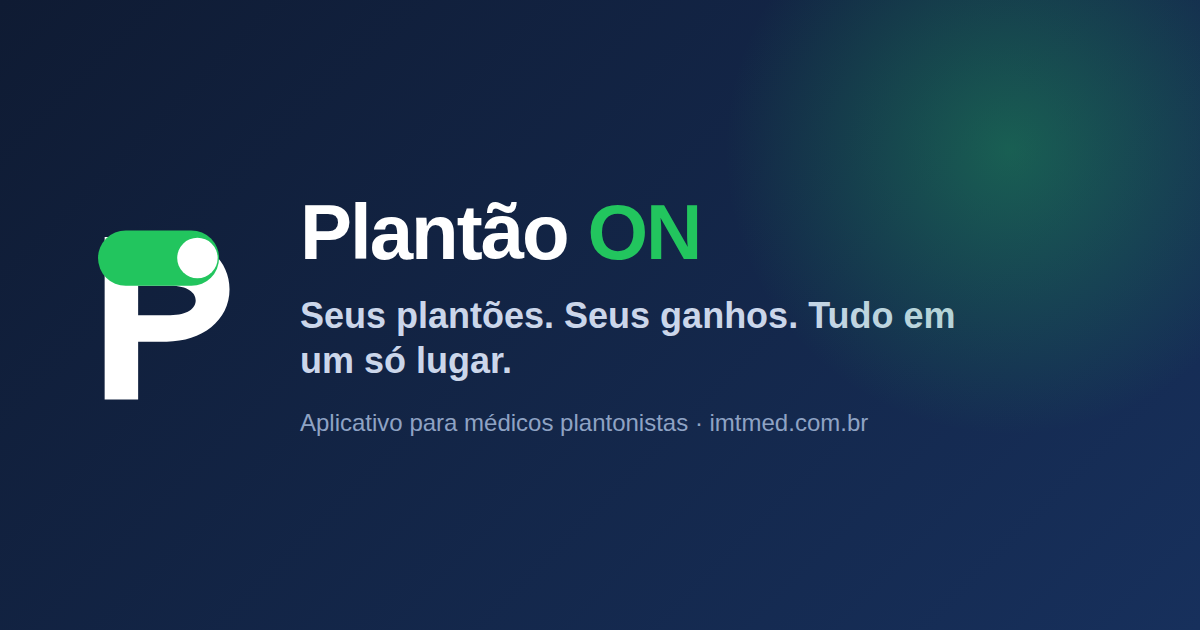
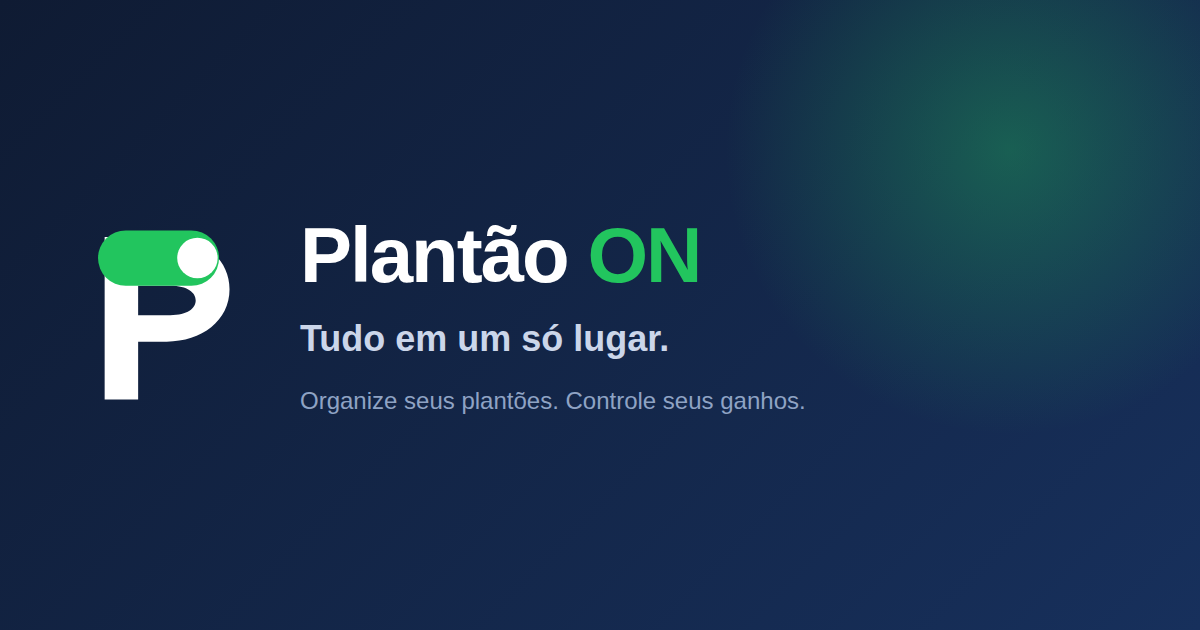
atualizações sobre as funcionalidades do aplicativo

Changed region(s): [[0.2467, 0.4825, 0.8017, 0.6937], [0.2467, 0.3016, 0.5858, 0.4524]]

diff --git a/index.html b/index.html
@@ -4,7 +4,7 @@
   <meta charset="utf-8">
   <meta name="viewport" content="width=device-width, initial-scale=1, viewport-fit=cover">
   <title>Plantão ON — Organize seus plantões e controle seus ganhos</title>
-  <meta name="description" content="O Plantão ON é o aplicativo para médicos plantonistas organizarem escalas, hospitais, ganhos e relatórios em um só lugar. Agenda de plantões, controle financeiro e sincronização com o Google Agenda.">
+  <meta name="description" content="O Plantão ON é o aplicativo para quem trabalha em plantões organizar escalas, locais de trabalho, ganhos e relatórios em um só lugar. Agenda de plantões, controle financeiro e sincronização com o Google Agenda.">
   <meta name="theme-color" content="#0f1b33">
   <link rel="canonical" href="https://imtmed.com.br/">
 
@@ -18,7 +18,7 @@
   <meta property="og:locale" content="pt_BR">
   <meta property="og:site_name" content="Plantão ON">
   <meta property="og:title" content="Plantão ON — Seus plantões. Seus ganhos. Tudo em um só lugar.">
-  <meta property="og:description" content="Aplicativo para médicos plantonistas: agenda, hospitais por cores, controle financeiro e relatórios.">
+  <meta property="og:description" content="Aplicativo para quem trabalha em plantões: agenda, locais por cores, controle financeiro e relatórios.">
   <meta property="og:url" content="https://imtmed.com.br/">
   <meta property="og:image" content="https://imtmed.com.br/assets/img/og-image.png">
   <meta name="twitter:card" content="summary_large_image">
@@ -42,9 +42,9 @@
       {
         "@type": "MobileApplication",
         "name": "Plantão ON",
-        "applicationCategory": "HealthApplication",
+        "applicationCategory": "BusinessApplication",
         "operatingSystem": "iOS, Android",
-        "description": "Aplicativo para médicos plantonistas organizarem plantões, hospitais, ganhos e relatórios.",
+        "description": "Aplicativo para profissionais que trabalham em plantões organizarem escalas, locais de trabalho, ganhos e relatórios.",
         "publisher": { "@type": "Organization", "name": "Migliorini Teixeira Health Tech Ltda." },
         "offers": [
           { "@type": "Offer", "price": "14.90", "priceCurrency": "BRL", "name": "Plano mensal" },
@@ -117,7 +117,7 @@
       <div class="hero-copy">
         <span class="eyebrow">Organize sua rotina. Controle seus ganhos.</span>
         <h1><span>Seus plantões.</span><span>Seus ganhos.</span><span class="accent">Tudo em um só lugar.</span></h1>
-        <p class="hero-lead">O Plantão ON é o aplicativo desenvolvido para médicos plantonistas que querem mais organização, praticidade e controle financeiro na sua rotina.</p>
+        <p class="hero-lead">O Plantão ON é o aplicativo desenvolvido para profissionais que trabalham em plantões e querem mais organização, praticidade e controle financeiro na sua rotina.</p>
         <div class="hero-cta">
           <span class="store-btn" aria-label="App Store — em breve"><svg><use href="#i-download"/></svg><span><small>Em breve na</small><strong>App Store</strong></span></span>
           <span class="store-btn" aria-label="Google Play — em breve"><svg><use href="#i-download"/></svg><span><small>Em breve no</small><strong>Google Play</strong></span></span>
@@ -145,18 +145,18 @@
       <div class="section-head section-head--center reveal">
         <span class="eyebrow">Funcionalidades</span>
         <h2>Organização completa para a sua rotina de plantões</h2>
-        <p>O Plantão ON foi pensado para simplificar a vida do médico plantonista, reunindo em um só lugar agenda, controle financeiro e relatórios.</p>
+        <p>O Plantão ON foi pensado para simplificar a vida de quem trabalha em plantões, reunindo em um só lugar agenda, controle financeiro e relatórios.</p>
       </div>
       <div class="feature-grid">
         <article class="feature reveal"><div class="ico"><svg><use href="#i-cal"/></svg></div><h3>Agenda de plantões</h3><p>Visualize todos os seus plantões em um calendário claro e fácil de consultar.</p></article>
-        <article class="feature reveal"><div class="ico"><svg><use href="#i-building"/></svg></div><h3>Hospitais por cores</h3><p>Cadastre seus hospitais e escolha uma cor para cada um, facilitando a visualização.</p></article>
+        <article class="feature reveal"><div class="ico"><svg><use href="#i-building"/></svg></div><h3>Locais por cores</h3><p>Cadastre seus locais de trabalho e escolha uma cor para cada um, facilitando a visualização.</p></article>
         <article class="feature reveal"><div class="ico"><svg><use href="#i-plus"/></svg></div><h3>Cadastro rápido</h3><p>Adicione um plantão em poucos toques, com horário, local, valor e observações.</p></article>
         <article class="feature reveal"><div class="ico"><svg><use href="#i-repeat"/></svg></div><h3>Plantões recorrentes</h3><p>Crie plantões semanais, quinzenais ou mensais automaticamente, e edite só um ou toda a sequência.</p></article>
         <article class="feature reveal"><div class="ico"><svg><use href="#i-coin"/></svg></div><h3>Controle financeiro</h3><p>Acompanhe ganhos previstos, recebidos e a receber, horas trabalhadas e média por plantão.</p></article>
         <article class="feature reveal"><div class="ico"><svg><use href="#i-sync"/></svg></div><h3>Google Agenda</h3><p>Se você quiser, seus plantões aparecem também na sua agenda do Google, e as mudanças acompanham.</p></article>
         <article class="feature reveal"><div class="ico"><svg><use href="#i-bell"/></svg></div><h3>Notificações</h3><p>Receba lembretes dos seus plantões e alertas de pagamentos pendentes.</p></article>
         <article class="feature reveal"><div class="ico"><svg><use href="#i-file"/></svg></div><h3>Relatórios</h3><p>Gere relatórios mensais e anuais em PDF ou CSV e envie quando precisar.</p></article>
-        <article class="feature reveal"><div class="ico"><svg><use href="#i-chart"/></svg></div><h3>Visão completa</h3><p>Entenda quais hospitais geram mais ganhos e acompanhe sua evolução financeira.</p></article>
+        <article class="feature reveal"><div class="ico"><svg><use href="#i-chart"/></svg></div><h3>Visão completa</h3><p>Entenda quais locais geram mais ganhos e acompanhe sua evolução financeira.</p></article>
       </div>
     </div>
   </section>
@@ -170,7 +170,7 @@
         <p style="color:var(--muted);font-size:1.08rem">Organize seus plantões, acompanhe seus ganhos e tenha mais tranquilidade na sua vida profissional.</p>
         <ul class="check-list">
           <li><span class="tick"><svg><use href="#i-check"/></svg></span><span><strong>Tudo na palma da mão</strong>Escala, valores e horas num único app, sem planilhas nem anotações soltas.</span></li>
-          <li><span class="tick"><svg><use href="#i-check"/></svg></span><span><strong>Saiba quanto vai receber</strong>Veja o previsto, o que já caiu e o que ainda falta receber de cada hospital.</span></li>
+          <li><span class="tick"><svg><use href="#i-check"/></svg></span><span><strong>Saiba quanto vai receber</strong>Veja o previsto, o que já caiu e o que ainda falta receber de cada local.</span></li>
           <li><span class="tick"><svg><use href="#i-check"/></svg></span><span><strong>Relatórios prontos</strong>Exporte o mês ou o ano em PDF ou CSV para conferir ou compartilhar.</span></li>
         </ul>
         <a class="btn btn--primary" href="#planos">Ver planos</a>
@@ -193,7 +193,7 @@
           <p class="price-sub">por mês</p>
           <ul>
             <li><svg><use href="#i-check"/></svg>Agenda de plantões</li>
-            <li><svg><use href="#i-check"/></svg>Hospitais por cores</li>
+            <li><svg><use href="#i-check"/></svg>Locais por cores</li>
             <li><svg><use href="#i-check"/></svg>Controle financeiro</li>
             <li><svg><use href="#i-check"/></svg>Relatórios em PDF e CSV</li>
             <li><svg><use href="#i-check"/></svg>Notificações</li>
@@ -209,7 +209,7 @@
           <p class="price-sub">por ano (equivale a R$&nbsp;9,99/mês)</p>
           <ul>
             <li><svg><use href="#i-check"/></svg>Agenda de plantões</li>
-            <li><svg><use href="#i-check"/></svg>Hospitais por cores</li>
+            <li><svg><use href="#i-check"/></svg>Locais por cores</li>
             <li><svg><use href="#i-check"/></svg>Controle financeiro</li>
             <li><svg><use href="#i-check"/></svg>Relatórios em PDF e CSV</li>
             <li><svg><use href="#i-check"/></svg>Notificações</li>
@@ -233,11 +233,11 @@
     <div class="container">
       <div class="section-head section-head--center reveal">
         <span class="eyebrow">Para quem</span>
-        <h2>Feito para médicos plantonistas, como você</h2>
-        <p>Quem trabalha em vários hospitais, escalas e vínculos sabe o quanto é difícil manter tudo sob controle. O Plantão ON foi criado para essa realidade.</p>
+        <h2>Feito para quem vive de plantão, como você</h2>
+        <p>Quem trabalha em vários locais, escalas e vínculos sabe o quanto é difícil manter tudo sob controle. O Plantão ON foi criado para essa realidade.</p>
       </div>
       <div class="audience">
-        <article class="aud reveal" style="--c:var(--green)"><h3>Vários hospitais</h3><p>Distinga cada local por cor e veja, de relance, onde você está em cada dia do mês.</p></article>
+        <article class="aud reveal" style="--c:var(--green)"><h3>Vários locais de trabalho</h3><p>Distinga cada local por cor e veja, de relance, onde você está em cada dia do mês.</p></article>
         <article class="aud reveal" style="--c:var(--blue)"><h3>Escalas que se repetem</h3><p>Configure a repetição uma vez e deixe o app preencher os próximos meses para você.</p></article>
         <article class="aud reveal" style="--c:var(--amber)"><h3>Pagamentos a receber</h3><p>Marque o que já foi pago e não perca de vista o que ainda está pendente.</p></article>
         <article class="aud reveal" style="--c:var(--violet)"><h3>Prestação de contas</h3><p>Gere relatórios do mês ou do ano e tenha tudo pronto para conferir ou declarar.</p></article>
@@ -265,16 +265,16 @@
       </div>
       <div class="faq-wrap">
         <div class="faq reveal">
-          <details><summary>O que é o Plantão ON?</summary><div class="answer"><p>É um aplicativo para médicos plantonistas organizarem plantões, hospitais, ganhos e relatórios em um só lugar, direto no celular.</p></div></details>
+          <details><summary>O que é o Plantão ON?</summary><div class="answer"><p>É um aplicativo para profissionais que trabalham em plantões organizarem escalas, locais de trabalho, ganhos e relatórios em um só lugar, direto no celular.</p></div></details>
           <details><summary>Como funciona o período de teste?</summary><div class="answer"><p>Ao assinar pela primeira vez, você tem 30 dias para testar todas as funcionalidades sem custo. Se não quiser continuar, cancele antes do fim do período, pela própria loja de aplicativos, e nada será cobrado.</p></div></details>
           <details><summary>Quais são os planos e valores?</summary><div class="answer"><p>Há o plano mensal, de R$&nbsp;14,90 por mês, e o plano anual, de R$&nbsp;119,90 por ano (equivalente a R$&nbsp;9,99 por mês). Os dois dão acesso a todas as funcionalidades.</p></div></details>
           <details><summary>Como funciona o cancelamento?</summary><div class="answer"><p>A assinatura é gerenciada pela App Store ou pelo Google Play, e você pode cancelar a qualquer momento nas configurações de assinaturas da sua conta na loja. O acesso continua até o fim do período já pago.</p></div></details>
           <details><summary>O aplicativo está disponível para iOS e Android?</summary><div class="answer"><p>O Plantão ON foi desenvolvido para iOS e Android e está em fase de publicação nas duas lojas. Assim que estiver no ar, os botões de download desta página serão ativados.</p></div></details>
           <details><summary>Meus dados estão seguros?</summary><div class="answer"><p>Sim. Os dados trafegam por conexão criptografada (HTTPS) e ficam em infraestrutura de nuvem com controle de acesso por conta. Seguimos a Lei Geral de Proteção de Dados (LGPD). Saiba mais na <a href="privacidade.html">Política de Privacidade</a>.</p></div></details>
           <details><summary>Posso exportar meus relatórios?</summary><div class="answer"><p>Sim. Você gera relatórios mensais ou anuais em PDF ou CSV e pode enviá-los por e-mail.</p></div></details>
-          <details><summary>Posso cadastrar mais de um hospital?</summary><div class="answer"><p>Sim. Você cadastra quantos hospitais e locais de trabalho precisar e escolhe uma cor para cada um.</p></div></details>
-          <details><summary>O aplicativo serve apenas para médicos?</summary><div class="answer"><p>Ele foi pensado para a rotina de médicos plantonistas, mas qualquer profissional que trabalhe em escalas de plantão pode usar para organizar horários e ganhos.</p></div></details>
-          <details><summary>O Plantão ON guarda dados de pacientes?</summary><div class="answer"><p>Não. O aplicativo é para a sua organização profissional e financeira. Pedimos que não registre nome ou dados de pacientes nas anotações dos plantões.</p></div></details>
+          <details><summary>Posso cadastrar mais de um local de trabalho?</summary><div class="answer"><p>Sim. Você cadastra quantos locais de trabalho precisar e escolhe uma cor para cada um.</p></div></details>
+          <details><summary>Para quem é o Plantão ON?</summary><div class="answer"><p>Para qualquer profissional que trabalhe em escalas de plantão, em qualquer área. O aplicativo serve para organizar horários, locais de trabalho e ganhos.</p></div></details>
+          <details><summary>O Plantão ON guarda dados de terceiros?</summary><div class="answer"><p>Não. O aplicativo é para a sua organização profissional e financeira. Pedimos que não registre dados pessoais de terceiros (como clientes ou pacientes) nas anotações dos plantões.</p></div></details>
           <details><summary>Como faço para entrar em contato com o suporte?</summary><div class="answer"><p>Escreva para <a href="mailto:imthealthtech@imtmed.com.br">imthealthtech@imtmed.com.br</a> ou use o formulário na seção <a href="#contato">Contato</a>.</p></div></details>
         </div>
         <div class="faq-phone" aria-hidden="true"><div data-phone="finance"></div></div>
@@ -288,12 +288,12 @@
       <div class="reveal">
         <span class="eyebrow">Sobre o Plantão ON</span>
         <h2 style="font-size:clamp(1.75rem,4.4vw,2.6rem)">Tecnologia para uma vida profissional mais organizada</h2>
-        <p>O Plantão ON nasceu da realidade de médicos plantonistas, que vivem a rotina de múltiplos locais, escalas diferentes e variações de valor, e encontraram a necessidade de uma ferramenta simples e completa para organizar os próprios plantões e ganhos.</p>
-        <p>O aplicativo é desenvolvido e mantido pela <strong>Migliorini Teixeira Health Tech Ltda.</strong> (CNPJ 69.494.098/0001-87), empresa dedicada a criar soluções digitais para a área da saúde.</p>
+        <p>O Plantão ON nasceu da realidade de quem vive de plantão: múltiplos locais, escalas diferentes e variações de valor, e a necessidade de uma ferramenta simples e completa para organizar os próprios plantões e ganhos.</p>
+        <p>O aplicativo é desenvolvido e mantido pela <strong>Migliorini Teixeira Health Tech Ltda.</strong> (CNPJ 69.494.098/0001-87), empresa dedicada a criar soluções digitais que facilitam a rotina de profissionais.</p>
       </div>
       <div class="values">
-        <div class="value reveal"><div class="ico"><svg><use href="#i-target"/></svg></div><div><h3>Nossa missão</h3><p>Simplificar a vida do médico plantonista, oferecendo uma ferramenta prática, segura e completa.</p></div></div>
-        <div class="value reveal"><div class="ico"><svg><use href="#i-eye"/></svg></div><div><h3>Nossos valores</h3><p>Praticidade, segurança, transparência, inovação e respeito ao tempo do profissional de saúde.</p></div></div>
+        <div class="value reveal"><div class="ico"><svg><use href="#i-target"/></svg></div><div><h3>Nossa missão</h3><p>Simplificar a vida de quem trabalha em plantões, oferecendo uma ferramenta prática, segura e completa.</p></div></div>
+        <div class="value reveal"><div class="ico"><svg><use href="#i-eye"/></svg></div><div><h3>Nossos valores</h3><p>Praticidade, segurança, transparência, inovação e respeito ao tempo de quem trabalha em plantão.</p></div></div>
         <div class="value reveal"><div class="ico"><svg><use href="#i-shield"/></svg></div><div><h3>Nosso compromisso</h3><p>Evoluir continuamente o aplicativo, sempre com base na experiência real dos nossos usuários e protegendo seus dados.</p></div></div>
       </div>
     </div>
@@ -330,7 +330,7 @@
           </div>
           <div class="field"><label for="f-msg">Mensagem</label><textarea id="f-msg" name="mensagem" placeholder="Digite sua mensagem aqui..." required maxlength="3000"></textarea></div>
           <div class="field field--hp" aria-hidden="true"><label for="f-site">Não preencha este campo</label><input id="f-site" name="site" type="text" tabindex="-1" autocomplete="off"></div>
-          <p class="consent">Ao enviar, você concorda que usemos seus dados apenas para responder esta mensagem, conforme a <a href="privacidade.html">Política de Privacidade</a>. Não inclua dados de pacientes.</p>
+          <p class="consent">Ao enviar, você concorda que usemos seus dados apenas para responder esta mensagem, conforme a <a href="privacidade.html">Política de Privacidade</a>. Não inclua dados pessoais de terceiros.</p>
           <p class="form-status" id="form-status" role="status" aria-live="polite"></p>
           <button class="btn btn--primary" type="submit" id="form-btn">Enviar mensagem</button>
         </form>
@@ -374,7 +374,7 @@
           <img src="assets/img/logo-mark-light.svg" alt="" width="34" height="40">
           <span class="brand-text"><span class="brand-name">Plantão <b>ON</b></span><span class="brand-tag">Escala de Plantões &amp; Ganhos</span></span>
         </a>
-        <p>Aplicativo para médicos plantonistas organizarem plantões, ganhos e relatórios em um só lugar.</p>
+        <p>Aplicativo para profissionais que trabalham em plantões organizarem escalas, ganhos e relatórios em um só lugar.</p>
       </div>
       <div class="col-links">
         <h4>Navegação</h4>

diff --git a/privacidade.html b/privacidade.html
@@ -68,7 +68,7 @@
         <li><a href="#retencao">Por quanto tempo guardamos</a></li>
         <li><a href="#direitos">Seus direitos</a></li>
         <li><a href="#seguranca">Segurança</a></li>
-        <li><a href="#pacientes">Dados de pacientes</a></li>
+        <li><a href="#terceiros">Dados de terceiros</a></li>
         <li><a href="#menores">Menores de idade</a></li>
         <li><a href="#site">Site, cookies e e-mails</a></li>
         <li><a href="#alteracoes">Alterações desta política</a></li>
@@ -91,7 +91,7 @@
           <tbody>
             <tr><td><strong>Conta e perfil</strong></td><td>Nome, e-mail, foto de perfil (opcional), data de nascimento e sexo</td><td>Informados por você ou recebidos do login com Google ou Apple</td></tr>
             <tr><td><strong>Login social</strong></td><td>Identificador da conta, nome e e-mail fornecidos pelo Google ou pela Apple. Nunca recebemos sua senha do Google ou da Apple</td><td>Google / Apple, com a sua autorização</td></tr>
-            <tr><td><strong>Conteúdo do app</strong></td><td>Hospitais e locais (nome e cor), plantões (data, horário, tipo, valor, repasse, observações, status de pagamento) e regras de repetição</td><td>Informados por você</td></tr>
+            <tr><td><strong>Conteúdo do app</strong></td><td>Locais de trabalho (nome e cor), plantões (data, horário, tipo, valor, repasse, observações, status de pagamento) e regras de repetição</td><td>Informados por você</td></tr>
             <tr><td><strong>Relatórios</strong></td><td>Relatórios em PDF ou CSV gerados a partir dos seus plantões e, se você pedir, enviados ao e-mail que indicar</td><td>Gerados por você</td></tr>
             <tr><td><strong>Assinatura</strong></td><td>Situação da assinatura (plano, período de teste, validade). Não recebemos dados do seu cartão</td><td>App Store, Google Play e provedor de assinaturas</td></tr>
             <tr><td><strong>Dados técnicos</strong></td><td>Modelo do aparelho, sistema operacional, versão do app, endereço IP e registros de erro</td><td>Coletados automaticamente</td></tr>
@@ -129,7 +129,7 @@
         <li><strong>Atualizamos</strong> esse mesmo evento quando você edita o plantão no aplicativo.</li>
         <li><strong>Removemos</strong> o evento quando você exclui o plantão no aplicativo.</li>
       </ul>
-      <p>O evento contém: título (nome do hospital e tipo do plantão), data e horário de início e fim e, na descrição, o valor, o campo “repassado para” e as observações do plantão, quando preenchidos. Se você não quiser que essas informações apareçam na sua agenda, não ative a integração.</p>
+      <p>O evento contém: título (nome do local de trabalho e tipo do plantão), data e horário de início e fim e, na descrição, o valor, o campo “repassado para” e as observações do plantão, quando preenchidos. Se você não quiser que essas informações apareçam na sua agenda, não ative a integração.</p>
       <p><strong>O que não fazemos:</strong> não lemos, listamos nem copiamos os demais eventos da sua agenda; usamos o acesso somente para criar, atualizar e apagar os eventos que o próprio aplicativo gerou. A sincronização é de mão única (Plantão ON → Google Agenda): alterações feitas diretamente na agenda não voltam para o aplicativo.</p>
       <p>As credenciais de acesso do Google (tokens) são gerenciadas pelo componente oficial de login do Google no seu aparelho e <strong>não são armazenadas em nossos servidores</strong>. Você pode desconectar a integração a qualquer momento no aplicativo ou revogar o acesso em <a href="https://myaccount.google.com/permissions" rel="noopener" target="_blank">myaccount.google.com/permissions</a>.</p>
 
@@ -164,8 +164,8 @@
       <h2 id="seguranca">9. Segurança</h2>
       <p>Adotamos medidas técnicas e organizacionais para proteger os dados, como conexões criptografadas (HTTPS/TLS), controle de acesso por conta (cada usuário só acessa os próprios dados), armazenamento seguro de sessão no aparelho e restrição de acesso interno. Nenhum sistema é totalmente imune a falhas; em caso de incidente que possa causar risco relevante, comunicaremos você e a ANPD conforme a lei.</p>
 
-      <h2 id="pacientes">10. Dados de pacientes</h2>
-      <p>O Plantão ON <strong>não é um prontuário nem um sistema de gestão clínica</strong> e não foi projetado para armazenar dados de pacientes. Pedimos que você <strong>não registre nomes, documentos ou informações de saúde de pacientes</strong> nas observações ou em qualquer outro campo.</p>
+      <h2 id="terceiros">10. Dados de terceiros</h2>
+      <p>O Plantão ON é uma ferramenta de organização pessoal de plantões e ganhos e <strong>não foi projetado para armazenar dados de clientes, pacientes ou outros terceiros</strong>. Pedimos que você <strong>não registre nomes, documentos ou informações pessoais ou sensíveis de terceiros</strong> nas observações ou em qualquer outro campo.</p>
 
       <h2 id="menores">11. Menores de idade</h2>
       <p>O aplicativo é destinado a profissionais e a maiores de 18 anos. Não coletamos intencionalmente dados de menores; se identificarmos uma conta nessa situação, ela será excluída.</p>
@@ -193,7 +193,7 @@
           <img src="assets/img/logo-mark-light.svg" alt="" width="34" height="40">
           <span class="brand-text"><span class="brand-name">Plantão <b>ON</b></span><span class="brand-tag">Escala de Plantões &amp; Ganhos</span></span>
         </a>
-        <p>Aplicativo para médicos plantonistas organizarem plantões, ganhos e relatórios em um só lugar.</p>
+        <p>Aplicativo para profissionais que trabalham em plantões organizarem escalas, ganhos e relatórios em um só lugar.</p>
       </div>
       <div class="col-links">
         <h4>Navegação</h4>

diff --git a/termos.html b/termos.html
@@ -83,7 +83,7 @@
       <p>Ao criar uma conta ou usar o Plantão ON, você declara que leu e concorda com estes Termos e com a <a href="privacidade.html">Política de Privacidade</a>. Se não concordar, não utilize o aplicativo.</p>
 
       <h2 id="servico">2. O serviço</h2>
-      <p>O Plantão ON é um aplicativo para profissionais que trabalham em escalas de plantão, especialmente médicos, organizarem seus plantões, hospitais e locais de trabalho, acompanharem valores a receber e recebidos e gerarem relatórios. Também oferece, de forma opcional, a sincronização dos plantões com o Google Agenda.</p>
+      <p>O Plantão ON é um aplicativo para profissionais que trabalham em escalas de plantão organizarem seus plantões e locais de trabalho, acompanharem valores a receber e recebidos e gerarem relatórios. Também oferece, de forma opcional, a sincronização dos plantões com o Google Agenda.</p>
       <p>As funcionalidades podem mudar, ser aprimoradas ou descontinuadas ao longo do tempo.</p>
 
       <h2 id="conta">3. Cadastro e conta</h2>
@@ -112,11 +112,11 @@
         <li>tentar acessar contas, sistemas ou dados que não sejam seus, ou contornar medidas de segurança;</li>
         <li>fazer engenharia reversa, copiar, revender ou explorar comercialmente o aplicativo, exceto quando a lei permitir;</li>
         <li>enviar vírus, automatizar acessos de forma abusiva ou sobrecarregar a infraestrutura;</li>
-        <li>inserir dados de pacientes ou outros dados sensíveis de terceiros nos campos do aplicativo.</li>
+        <li>inserir dados pessoais ou sensíveis de terceiros (como clientes ou pacientes) nos campos do aplicativo.</li>
       </ul>
 
       <h2 id="conteudo-usuario">6. Seu conteúdo</h2>
-      <p>Os dados que você cadastra (hospitais, plantões, valores, observações) continuam sendo seus. Você nos autoriza a armazená-los e processá-los somente para operar o aplicativo para você, conforme a Política de Privacidade. Você é responsável pela exatidão do que registra: o Plantão ON é uma ferramenta de organização e <strong>não substitui</strong> contratos, notas fiscais, contracheques ou a conferência com a fonte pagadora.</p>
+      <p>Os dados que você cadastra (locais de trabalho, plantões, valores, observações) continuam sendo seus. Você nos autoriza a armazená-los e processá-los somente para operar o aplicativo para você, conforme a Política de Privacidade. Você é responsável pela exatidão do que registra: o Plantão ON é uma ferramenta de organização e <strong>não substitui</strong> contratos, notas fiscais, contracheques ou a conferência com a fonte pagadora.</p>
 
       <h2 id="propriedade">7. Propriedade intelectual</h2>
       <p>O aplicativo, a marca “Plantão ON”, o logotipo, o design, os textos e o código são de nossa titularidade ou licenciados a nós, e protegidos pela legislação aplicável. Concedemos a você uma licença pessoal, limitada, revogável, não exclusiva e intransferível para usar o aplicativo conforme estes Termos.</p>
@@ -127,7 +127,7 @@
 
       <h2 id="aviso">9. Avisos importantes</h2>
       <div class="callout">
-        <p>O Plantão ON <strong>não é um serviço de saúde</strong>, não presta orientação médica nem integra prontuários. Não registre dados de pacientes. Os valores, horas e relatórios exibidos dependem das informações que você mesmo cadastra.</p>
+        <p>O Plantão ON é uma ferramenta de organização pessoal. <strong>Não registre dados pessoais de terceiros</strong>, como clientes ou pacientes. Os valores, horas e relatórios exibidos dependem das informações que você mesmo cadastra.</p>
       </div>
       <p>Lembretes e notificações dependem do seu aparelho, das permissões concedidas e de conexão, e podem falhar; não os use como único meio de controle de compromissos críticos.</p>
 
@@ -156,7 +156,7 @@
           <img src="assets/img/logo-mark-light.svg" alt="" width="34" height="40">
           <span class="brand-text"><span class="brand-name">Plantão <b>ON</b></span><span class="brand-tag">Escala de Plantões &amp; Ganhos</span></span>
         </a>
-        <p>Aplicativo para médicos plantonistas organizarem plantões, ganhos e relatórios em um só lugar.</p>
+        <p>Aplicativo para profissionais que trabalham em plantões organizarem escalas, ganhos e relatórios em um só lugar.</p>
       </div>
       <div class="col-links">
         <h4>Navegação</h4>

diff --git a/js/main.js b/js/main.js
@@ -31,7 +31,7 @@
   var PHONES = {
     calendar:
       '<div class="screen">' +
-        '<div class="screen-top"><div class="hello"><span>Olá, Dr. José 👋</span><i>＋</i></div>' +
+        '<div class="screen-top"><div class="hello"><span>Olá, José 👋</span><i>＋</i></div>' +
         '<div class="month">Outubro 2026</div>' +
         '<div class="stat-row"><div class="stat"><b>12</b><span>Plantões</span></div><div class="stat"><b>144</b><span>Horas</span></div></div></div>' +
         '<div class="money-row">' +
@@ -42,8 +42,8 @@
         '<div class="screen-body">' +
           '<div class="cal"><div class="cal-head"><span>D</span><span>S</span><span>T</span><span>Q</span><span>Q</span><span>S</span><span>S</span></div><div class="cal-grid">' + calendarCells() + '</div></div>' +
           '<div class="screen-title">Próximos plantões</div>' +
-          '<div class="shift" style="--c:#16a34a"><i class="bar"></i><div><b>Hospital Central</b><small>07:00 – 19:00 · UTI</small></div><em>R$ 1.500</em></div>' +
-          '<div class="shift" style="--c:#f59e0b"><i class="bar"></i><div><b>Pronto Atendimento Sul</b><small>19:00 – 07:00 · PS</small></div><em>R$ 1.400</em></div>' +
+          '<div class="shift" style="--c:#16a34a"><i class="bar"></i><div><b>Unidade Centro</b><small>07:00 – 19:00 · Diurno</small></div><em>R$ 1.500</em></div>' +
+          '<div class="shift" style="--c:#f59e0b"><i class="bar"></i><div><b>Posto Norte</b><small>19:00 – 07:00 · Noturno</small></div><em>R$ 1.400</em></div>' +
         '</div>' + tab(0) +
       '</div>',
     finance:
@@ -52,12 +52,12 @@
         '<div class="screen-body" style="padding-top:12px">' +
           '<div class="money-row" style="padding:0 0 4px"><div class="money"><small>Previstos</small><b>R$ 18.400</b></div><div class="money money--g"><small>Recebidos</small><b>R$ 12.600</b></div><div class="money money--a"><small>A receber</small><b>R$ 5.800</b></div></div>' +
           '<div class="donut"><div><span><b>12</b><small>plantões</small></span></div></div>' +
-          '<div class="screen-title">Ganhos por hospital</div>' +
+          '<div class="screen-title">Ganhos por local</div>' +
           '<div class="hbars">' +
-            '<div class="row"><span>Hosp. Central</span><div class="track"><i style="--c:#16a34a;--w:82%"></i></div><span>7.500</span></div>' +
-            '<div class="row"><span>UPA Norte</span><div class="track"><i style="--c:#3b82f6;--w:66%"></i></div><span>6.000</span></div>' +
-            '<div class="row"><span>Clínica Vida</span><div class="track"><i style="--c:#f59e0b;--w:48%"></i></div><span>4.500</span></div>' +
-            '<div class="row"><span>Hosp. Sul</span><div class="track"><i style="--c:#8b5cf6;--w:30%"></i></div><span>2.800</span></div>' +
+            '<div class="row"><span>Centro</span><div class="track"><i style="--c:#16a34a;--w:82%"></i></div><span>7.500</span></div>' +
+            '<div class="row"><span>Posto Norte</span><div class="track"><i style="--c:#3b82f6;--w:66%"></i></div><span>6.000</span></div>' +
+            '<div class="row"><span>Base Leste</span><div class="track"><i style="--c:#f59e0b;--w:48%"></i></div><span>4.500</span></div>' +
+            '<div class="row"><span>Unid. Sul</span><div class="track"><i style="--c:#8b5cf6;--w:30%"></i></div><span>2.800</span></div>' +
           '</div>' +
         '</div>' + tab(3) +
       '</div>'

diff --git a/excluir-conta.html b/excluir-conta.html
@@ -70,7 +70,7 @@
       <h2>O que é apagado</h2>
       <ul>
         <li>Dados de perfil (nome, e-mail, foto, data de nascimento e sexo);</li>
-        <li>Hospitais, plantões, regras de repetição, valores e observações;</li>
+        <li>Locais de trabalho, plantões, regras de repetição, valores e observações;</li>
         <li>Relatórios e demais conteúdos associados à sua conta.</li>
       </ul>
       <p>Os dados são eliminados ou anonimizados em até <strong>30 dias</strong> após a confirmação. Podemos manter apenas o que a lei exigir (por exemplo, registros de cobrança) ou for necessário para a defesa em processos, pelo prazo legal.</p>
@@ -95,7 +95,7 @@
           <img src="assets/img/logo-mark-light.svg" alt="" width="34" height="40">
           <span class="brand-text"><span class="brand-name">Plantão <b>ON</b></span><span class="brand-tag">Escala de Plantões &amp; Ganhos</span></span>
         </a>
-        <p>Aplicativo para médicos plantonistas organizarem plantões, ganhos e relatórios em um só lugar.</p>
+        <p>Aplicativo para profissionais que trabalham em plantões organizarem escalas, ganhos e relatórios em um só lugar.</p>
       </div>
       <div class="col-links">
         <h4>Navegação</h4>

diff --git a/404.html b/404.html
@@ -54,7 +54,7 @@
           <img src="/assets/img/logo-mark-light.svg" alt="" width="34" height="40">
           <span class="brand-text"><span class="brand-name">Plantão <b>ON</b></span><span class="brand-tag">Escala de Plantões &amp; Ganhos</span></span>
         </a>
-        <p>Aplicativo para médicos plantonistas organizarem plantões, ganhos e relatórios em um só lugar.</p>
+        <p>Aplicativo para profissionais que trabalham em plantões organizarem escalas, ganhos e relatórios em um só lugar.</p>
       </div>
       <div class="col-links">
         <h4>Navegação</h4>

diff --git a/css/styles.css b/css/styles.css
@@ -201,7 +201,7 @@ p { margin: 0 0 1em; }
 }
 .float-chip .dot { width: 34px; height: 34px; border-radius: 10px; display: grid; place-items: center; background: var(--mint); color: var(--green-600); }
 .float-chip small { display: block; font-weight: 600; color: var(--muted); font-size: .72rem; }
-.float-chip--a { left: -4px; bottom: 6px; }
+.float-chip--a { left: -24px; bottom: -16px; }
 .float-chip--b { right: 0; top: 18px; }
 
 @media (min-width: 900px) {
